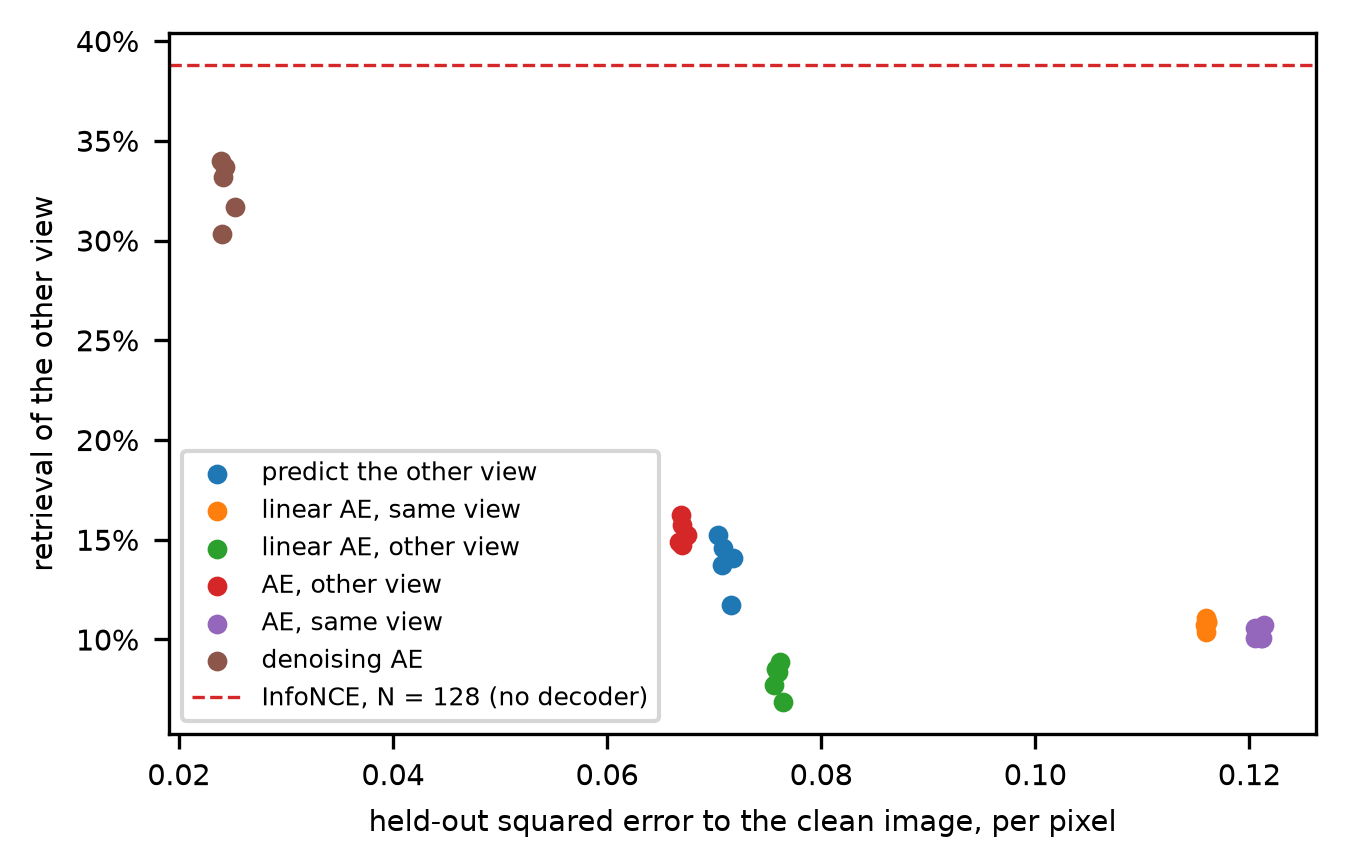
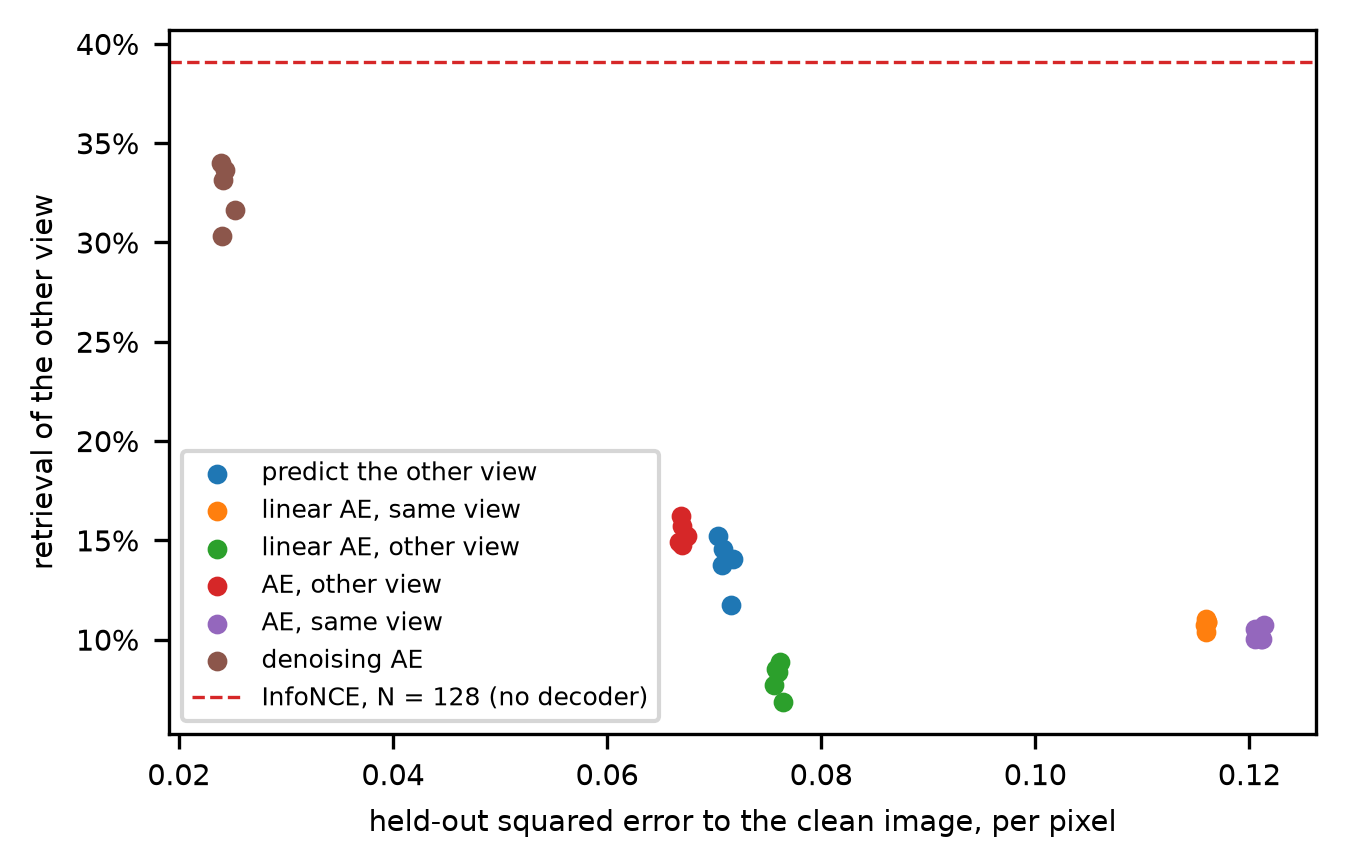
Refine explanations in embedding spaces and solutions chapters for clarity and consistency; update InfoNCE implementation to use symmetric loss; adjust retrieval assertions in reconstruction script; update figures for improved accuracy.

diff --git a/code/embedding_spaces/contrast_digits_infonce.py b/code/embedding_spaces/contrast_digits_infonce.py
@@ -85,14 +85,17 @@ def fit(modules: list, batch_loss, steps: int, batch: int, rng: np.random.Genera
 
 
 def infonce(f: nn.Module, x: np.ndarray, y: np.ndarray) -> torch.Tensor:
-    """InfoNCE of the views x (anchors) and y (candidates), in nats: the j-th candidate is the positive of the i-th anchor when j = i.
+    """Symmetric InfoNCE of the views x and y, in nats: the i-th y is the positive of the i-th x and the other way round.
 
-    With the unit vectors e_i = f(x_i), v_j = f(y_j) (rows of e and v) and the scores S_ij = <e_i, v_j> / tau, the loss is the softmax
-    cross-entropy of picking the diagonal, whose gradient with respect to S is (softmax(S) - I) / N, the same 'predicted minus observed'
-    as in Learning by Prediction.
+    With the unit vectors e_i = f(x_i), v_j = f(y_j) (rows of e and v) and the scores S_ij = <e_i, v_j> / tau, the loss is the average of
+    the softmax cross-entropy of picking the diagonal in each row (which y goes with x_i) and in each column (which x goes with y_j), whose
+    gradient with respect to S is (softmax_rows(S) + softmax_columns(S) - 2 I) / (2N), the same 'predicted minus observed' as in
+    Learning by Prediction.
     """
     e, v = (F.normalize(f(torch.tensor(view)), dim=1) for view in (x, y))
-    return F.cross_entropy(e @ v.T / TAU, torch.arange(len(x)))
+    scores = e @ v.T / TAU
+    target = torch.arange(len(x))
+    return (F.cross_entropy(scores, target) + F.cross_entropy(scores.T, target)) / 2
 
 
 def train_encoder(kind: str, batch: int, seed: int):

diff --git a/code/embedding_spaces/reconstruct_digits_ae.py b/code/embedding_spaces/reconstruct_digits_ae.py
@@ -157,7 +157,7 @@ if __name__ == "__main__":
     # The 'predict' and InfoNCE rows are the rows of the contrast script (same seeds, same code).
     p, i = by["predict the other view"], by["InfoNCE, N = 128"]
     assert round(np.mean([r["retrieval"] for r in p]) * 100, 1) == 13.9, "the predict row no longer matches the contrast script"
-    assert round(np.mean([r["retrieval"] for r in i]) * 100, 1) == 38.8, "the InfoNCE row no longer matches the contrast script"
+    assert round(np.mean([r["retrieval"] for r in i]) * 100, 1) == 39.1, "the InfoNCE row no longer matches the contrast script"
     assert round(np.mean([r["offset"] for r in p]), 2) == 0.96 and round(np.mean([r["alignment"] for r in p]), 2) == 0.03
 
     # Eckart-Young: the linear autoencoder of the same view reaches the error of the PCA of the same dimension. The PCA is that of the
